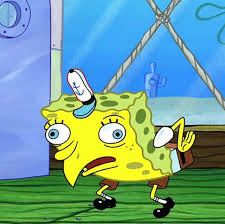
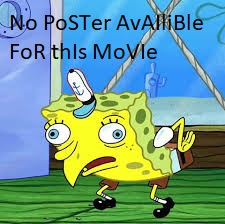
updated random page | need to fix issue where a ID does not point to a movie and causes site to return internal error

diff --git a/templates/movie.html b/templates/movie.html
@@ -13,36 +13,29 @@
                 <br>
             </div>
             <br /><br /><br />
-            <div class="poster">
-                {% if poster == "N/A" %}
-                    No poster available for this movie <br />
-                    <img src="/static/spongebob.jpg">
-                {% else %}
-                    <img src="{{poster}}">
-                {% endif %}
-            </div>
-            <div class="info">
-                <div class="infoTable">
-                    <table border = "1">
-                        <tr>
-                            <th>Title</th>
-                            <td>{{title}}</td>
-                        </tr>
-                        <tr>
-                            <th>Director</th>
-                            <td>{{director}}</td>
-                        </tr>
-                        <tr>
-                            <th>Rating</th>
-                                <td>{{rating}}</td>
-                        </tr>
-                        <tr>
-                            <th>Genre</th>
-                            <td>{{genre}}</td>
-                        </tr>
-                    </table>
+            <div class = "movie-container">
+                <div class="poster">
+                    {% if poster == "N/A" %}
+                        
+                        <img src="/static/spongebob.jpg" width="100%">
+                    {% else %}
+                        <img src="{{poster}}" width="100%">
+                    {% endif %}
+                </div>
+                <div class="info">
+                    <p class="meta-data"> Genre: {{genre}}</p>
+                    <p class="meta-data"> IMDB Rating: {{rating}}/10</p>
+                    <p class="meta-data"> Director: {{director}}</p>
+                    <p class="meta-data"> Actors:  {{actors}}</p>
+                    <p class="meta-data"> Year: {{year}}</p>
+                    <p class="meta-data"> Rated: {{rated}}</p>
+                    <p class="meta-data"> <a href="{{url}}" target="_blank">IMDB</a></p>
+
+                    
+                    
                 </div>
             </div>
+            
             
 
         </body>

diff --git a/static/styles.css b/static/styles.css
@@ -16,17 +16,26 @@
   left: 50%;
   -ms-transform: translate(-50%, -50%);
   transform: translate(-50%, -50%);
+
+}
+input[type="button"] {
+    font-size: 24px;
 }
 
 .poster {
     float: left;
     width: 35%;
-    /* margin-left: 100px;
-    margin-top: 50px; */
+
 }
 
 .info {
-    
+
+    margin-left: 15px;
     float: right;
-    width: 65%;
+    width: 60%;
+}
+
+.movie-container {
+    padding-left: 25%;
+    padding-right: 25%;
 }

diff --git a/wmsiw.py b/wmsiw.py
@@ -26,14 +26,18 @@ def randomMovie():
     print(data)
     if data['Response'] == 'False':
         randomMovie()
-    title = data['Title']
-    year = data['Year']
-    genre = data['Genre']
-    director = data['Director']
-    poster = data['Poster']
-    rating = data['imdbRating']
+    else:
+        title = data['Title']
+        year = data['Year']
+        genre = data['Genre']
+        director = data['Director']
+        poster = data['Poster']
+        rating = data['imdbRating']
+        rated = data['Rated']
+        url = "https://imdb.com/title/" + data['imdbID']
+        actors = data['Actors']
 
-    return render_template("movie.html", title = title, year = year, genre = genre, director = director, poster = poster, rating = rating)       
+    return render_template("movie.html", title = title, year = year, genre = genre, director = director, poster = poster, rating = rating, rated = rated, url = url, actors = actors)       
 
 @app.route("/")
 def hello():
